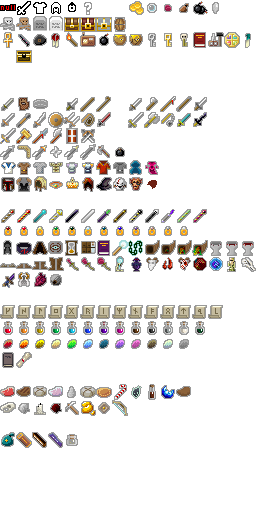
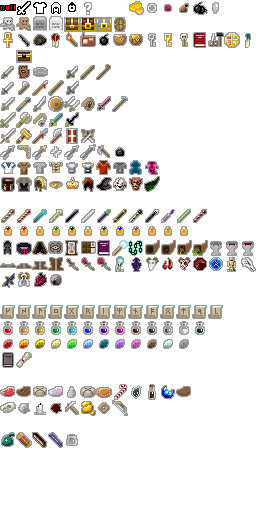
0.3.2 bug fix, dagger-axe added.

Changed region(s): [[0.0, 0.125, 0.8125, 0.25], [0.5625, 0.3438, 0.625, 0.375]]

diff --git a/core/src/main/java/com/egoal/darkestpixeldungeon/levels/RegularLevel.kt b/core/src/main/java/com/egoal/darkestpixeldungeon/levels/RegularLevel.kt
@@ -96,18 +96,20 @@ abstract class RegularLevel : Level() {
         // specials
         val probs = HashMap<Class<out Digger>, Float>(SpecialDiggers)
         if (pitRoomNeeded) {
-            // a pit room is need, remove all locked diggers
             // todo: this is fragile
             diggers.add(PitDigger())
-
+            
+            // a pit room is need, remove all locked diggers
             probs.remove(ArmoryDigger::class.java)
+            probs.remove(CryptDigger::class.java)
+            probs.remove(LaboratoryDigger::class.java)
             probs.remove(LibraryDigger::class.java)
+            probs.remove(StatueDigger::class.java)
             probs.remove(TreasuryDigger::class.java)
             probs.remove(VaultDigger::class.java)
-            probs.remove(WeakFloorDigger::class.java)
-            probs.remove(LaboratoryDigger::class.java)
             probs.remove(WandDigger::class.java)
-            probs.remove(CryptDigger::class.java)
+            // and the weak floor digger 
+            probs.remove(WeakFloorDigger::class.java)
         }
 
         // never fall to boss
@@ -438,7 +440,7 @@ abstract class RegularLevel : Level() {
         private val SPACES = "spaces"
 
         val SpecialDiggers: Map<Class<out Digger>, Float> = mapOf(
-                ArmoryDigger::class.java to 1f,
+                ArmoryDigger::class.java to 0.75f,
                 GardenDigger::class.java to 1f,
                 LaboratoryDigger::class.java to 1.6f,
                 LibraryDigger::class.java to 1f,
@@ -472,12 +474,13 @@ abstract class RegularLevel : Level() {
                 CellDigger::class.java to .1f,
                 CircleDigger::class.java to .05f,
                 DiamondDigger::class.java to .05f,
-                LatticeDigger::class.java to .075f,
+                LatticeDigger::class.java to .025f,
                 RectDigger::class.java to 1.25f,
                 RoundDigger::class.java to .05f,
                 StripDigger::class.java to .1f,
                 CrossDigger::class.java to .05f,
                 PatchDigger::class.java to .05f,
+                PillarDigger::class.java to .05f, 
                 GraveyardDigger::class.java to .05f,
                 SmallCornerDigger::class.java to 0.075f
         )

diff --git a/core/src/main/java/com/egoal/darkestpixeldungeon/items/KGenerator.kt b/core/src/main/java/com/egoal/darkestpixeldungeon/items/KGenerator.kt
@@ -90,8 +90,9 @@ object KGenerator {
                 Shuriken::class.java to 6f,
                 CurareDart::class.java to 6f,
                 CrystalsSwords::class.java to 4f,
-                SmokeSparks::class.java to 5f
-        ))
+                DaggerAxe::class.java to 5f,
+                SmokeSparks::class.java to 3f
+                ))
 
         object T4 : ClassMapGenerator<Weapon>(hashMapOf(
                 Longsword::class.java to 6f,
@@ -257,12 +258,17 @@ object KGenerator {
         }
 
         private val lastProbMap = HashMap<Class<out Artifact>, Float>()
+        private val lastSpawned = ArrayList<String>()
         fun push() {
             probMap.toMap(lastProbMap)
+            lastSpawned.clear()
+            lastSpawned.addAll(spawned)
         }
 
         fun pop() {
             lastProbMap.toMap(probMap)
+            spawned.clear()
+            spawned.addAll(lastSpawned)
         }
 
         fun reset() {
@@ -305,7 +311,7 @@ object KGenerator {
             CrownOfDwarf::class.java to 0f, // by king 
             HeaddressRegeneration::class.java to 1f,
             WizardHat::class.java to 1f,
-            MaskOfHorror::class.java to 1f, 
+            MaskOfHorror::class.java to 1f,
             MaskOfClown::class.java to 1f,
             RangerHat::class.java to 0.2f, // rare, so Yvette counts.
             MaskOfMadness::class.java to 0f // compose

diff --git a/core/src/main/java/com/egoal/darkestpixeldungeon/items/weapon/melee/DaggerAxe.kt b/core/src/main/java/com/egoal/darkestpixeldungeon/items/weapon/melee/DaggerAxe.kt
@@ -1,0 +1,35 @@
+package com.egoal.darkestpixeldungeon.items.weapon.melee
+
+import com.egoal.darkestpixeldungeon.actors.Char
+import com.egoal.darkestpixeldungeon.actors.Damage
+import com.egoal.darkestpixeldungeon.items.wands.WandOfBlastWave
+import com.egoal.darkestpixeldungeon.mechanics.Ballistica
+import com.egoal.darkestpixeldungeon.sprites.ItemSpriteSheet
+import com.watabou.utils.Random
+
+class DaggerAxe : MeleeWeapon() {
+    init {
+        image = ItemSpriteSheet.DAGGER_AXE
+
+        tier = 3
+        DLY = 1.5f
+        RCH = 2
+    }
+
+    // like spear
+    override fun max(lvl: Int): Int = Math.round((6.67f + 1.33f * lvl) * (tier + 1))
+
+    override fun proc(dmg: Damage): Damage {
+        // chance to knock back
+        val chance = 0.1f + 0.25 * (1f - Math.pow(.7, level() / 3.0).toFloat())
+        if (dmg.to is Char && Random.Float() < chance) {
+            val tgt = dmg.to as Char
+            val opposite = tgt.pos + (tgt.pos - (dmg.from as Char).pos)
+            val shot = Ballistica(tgt.pos, opposite, Ballistica.MAGIC_BOLT)
+
+            WandOfBlastWave.throwChar(tgt, shot, 1)
+        }
+
+        return super.proc(dmg)
+    }
+}

diff --git a/core/src/main/java/com/egoal/darkestpixeldungeon/levels/diggers/normal/PillarDigger.kt b/core/src/main/java/com/egoal/darkestpixeldungeon/levels/diggers/normal/PillarDigger.kt
@@ -1,0 +1,29 @@
+package com.egoal.darkestpixeldungeon.levels.diggers.normal
+
+import com.egoal.darkestpixeldungeon.levels.Level
+import com.egoal.darkestpixeldungeon.levels.Terrain
+import com.egoal.darkestpixeldungeon.levels.diggers.DigResult
+import com.egoal.darkestpixeldungeon.levels.diggers.Rect
+import com.egoal.darkestpixeldungeon.levels.diggers.Wall
+import com.watabou.utils.Point
+import com.watabou.utils.Random
+
+class PillarDigger : RectDigger() {
+    override fun chooseRoomSize(wall: Wall): Point = Point(Random.IntRange(6, 9), Random.IntRange(6, 9))
+
+    override fun dig(level: Level, wall: Wall, rect: Rect): DigResult {
+        val dr = super.dig(level, wall, rect)
+
+        // pillar
+        val pillars = Random.NormalIntRange(1, 3)
+        repeat(pillars) {
+            val w = Random.NormalIntRange(1, 3)
+            val h = Random.NormalIntRange(1, 3)
+            val x = Random.IntRange(rect.x1 + 1, rect.x2 - w)
+            val y = Random.IntRange(rect.y1 + 1, rect.y2 - h)
+            Companion.Fill(level, x, y, w, h, Terrain.WALL)
+        }
+
+        return dr
+    }
+}

diff --git a/core/src/main/java/com/egoal/darkestpixeldungeon/actors/mobs/WandGuard.kt b/core/src/main/java/com/egoal/darkestpixeldungeon/actors/mobs/WandGuard.kt
@@ -12,8 +12,10 @@ import com.egoal.darkestpixeldungeon.effects.particles.ShadowParticle
 import com.egoal.darkestpixeldungeon.items.Item
 import com.egoal.darkestpixeldungeon.items.wands.*
 import com.egoal.darkestpixeldungeon.mechanics.Ballistica
+import com.egoal.darkestpixeldungeon.messages.Messages
 import com.egoal.darkestpixeldungeon.sprites.CharSprite
 import com.egoal.darkestpixeldungeon.sprites.MobSprite
+import com.egoal.darkestpixeldungeon.utils.GLog
 import com.watabou.noosa.MovieClip
 import com.watabou.noosa.TextureFilm
 import com.watabou.utils.Random
@@ -54,6 +56,11 @@ class WandGuard : Mob() {
             enemy.defendDamage(dmg)
             enemy.takeDamage(dmg)
 
+            if (!enemy.isAlive) {
+                Dungeon.fail(dmg.from.javaClass)
+                GLog.n(Messages.capitalize(Messages.get(Char::class.java, "kill", (dmg.from as Char).name)))
+            }
+            
             //todo: i cannot use Wand::onZap(): coupling with Hero, may find way out
             //todo: fire wand performs not well
         }

diff --git a/core/src/main/java/com/egoal/darkestpixeldungeon/actors/hero/HeroClass.kt b/core/src/main/java/com/egoal/darkestpixeldungeon/actors/hero/HeroClass.kt
@@ -24,6 +24,7 @@ import com.egoal.darkestpixeldungeon.items.unclassified.Amulet
 import com.egoal.darkestpixeldungeon.items.unclassified.BrokenSeal
 import com.egoal.darkestpixeldungeon.items.unclassified.ExtractionFlask
 import com.egoal.darkestpixeldungeon.items.unclassified.Torch
+import com.egoal.darkestpixeldungeon.items.wands.WandOfBlastWave
 import com.egoal.darkestpixeldungeon.items.wands.WandOfMagicMissile
 import com.egoal.darkestpixeldungeon.items.weapon.Weapon
 import com.egoal.darkestpixeldungeon.items.weapon.melee.*
@@ -31,6 +32,7 @@ import com.egoal.darkestpixeldungeon.items.weapon.missiles.Boomerang
 import com.egoal.darkestpixeldungeon.items.weapon.missiles.Dart
 import com.egoal.darkestpixeldungeon.items.weapon.missiles.SmokeSparks
 import com.egoal.darkestpixeldungeon.messages.Messages
+import com.egoal.darkestpixeldungeon.plants.Icecap
 import com.watabou.utils.Bundle
 
 enum class HeroClass(private val title: String) {

diff --git a/core/src/main/java/com/egoal/darkestpixeldungeon/items/artifacts/DriedRose.kt b/core/src/main/java/com/egoal/darkestpixeldungeon/items/artifacts/DriedRose.kt
@@ -190,7 +190,7 @@ class DriedRose : Artifact() {
 
                 if (rose.level() >= rose.levelCap) {
                     GLog.i(Messages.get(this, "no_room"))
-                    hero.spendAndNext(Item.TIME_TO_PICK_UP)
+                    hero.spendAndNext(TIME_TO_PICK_UP)
                     return true
                 } else {
                     rose.upgrade()
@@ -198,7 +198,7 @@ class DriedRose : Artifact() {
                     else GLog.i(Messages.get(this, "levelup"))
 
                     Sample.INSTANCE.play(Assets.SND_DEWDROP)
-                    hero.spendAndNext(Item.TIME_TO_PICK_UP)
+                    hero.spendAndNext(TIME_TO_PICK_UP)
                     return true
                 }
             }

diff --git a/core/src/main/java/com/egoal/darkestpixeldungeon/levels/CavesLevel.kt b/core/src/main/java/com/egoal/darkestpixeldungeon/levels/CavesLevel.kt
@@ -52,10 +52,13 @@ class CavesLevel : RegularLevel() {
         // todo: rework this...
         if (!Yvette.Quest.Spawned && !Blacksmith.Quest.spawned) {
             if (Random.Int(15 - Dungeon.depth) == 0) {
-//                diggers.add(BlackSmithDigger())
-//                Blacksmith.Quest.Spawn()
-                diggers.add(TrappedRangerDigger())
-                Yvette.Quest.Spawned = true
+                if (Random.Int(2) == 0) {
+                    diggers.add(BlackSmithDigger())
+                    Blacksmith.Quest.Spawn()
+                } else {
+                    diggers.add(TrappedRangerDigger())
+                    Yvette.Quest.Spawned = true
+                }
             }
         }
 

diff --git a/core/src/main/java/com/egoal/darkestpixeldungeon/levels/diggers/unordinary/SewerExitDigger.kt b/core/src/main/java/com/egoal/darkestpixeldungeon/levels/diggers/unordinary/SewerExitDigger.kt
@@ -13,6 +13,13 @@ import com.watabou.utils.Random
 class SewerExitDigger : RectDigger() {
     override fun chooseRoomSize(wall: Wall): Point = Point(Random.IntRange(6, 8), Random.IntRange(6, 8))
 
+    override fun chooseDigArea(wall: Wall): Rect {
+        // cannot down to this room.
+        if (wall.direction == Direction.Down) return Rect(-1, -1, -1, -1)
+        
+        return super.chooseDigArea(wall)
+    }
+
     override fun dig(level: Level, wall: Wall, rect: Rect): DigResult {
         Fill(level, rect, Terrain.EMPTY)
         LinkHorizontal(level, rect.y1, rect.x1, rect.x2, Terrain.WALL_DECO)

diff --git a/core/src/main/java/com/egoal/darkestpixeldungeon/levels/SewerBossLevel.kt b/core/src/main/java/com/egoal/darkestpixeldungeon/levels/SewerBossLevel.kt
@@ -44,10 +44,10 @@ class SewerBossLevel : SewerLevel() {
     override fun chooseDiggers(): ArrayList<Digger> {
         val rectDiggers = hashMapOf(
                 CellDigger::class.java to .1f,
-                LatticeDigger::class.java to .075f,
+                LatticeDigger::class.java to .05f,
                 RectDigger::class.java to 1.25f,
                 StripDigger::class.java to .1f,
-                GraveyardDigger::class.java to .025f,
+                GraveyardDigger::class.java to .02f,
                 SmallCornerDigger::class.java to 0.075f
         )
 

diff --git a/core/src/main/java/com/egoal/darkestpixeldungeon/items/weapon/melee/PairSwords.kt b/core/src/main/java/com/egoal/darkestpixeldungeon/items/weapon/melee/PairSwords.kt
@@ -50,7 +50,7 @@ class PairSwords(var left: Sword = Sword(), var right: Sword = Sword()) : MeleeW
     // or you could just split them, enchant, then dual again.
     override fun enchant(): Weapon = selectEnchantSword().enchant()
 
-    override fun enchant(ench: Enchantment): Weapon = selectEnchantSword().enchant(ench)
+    override fun enchant(ench: Enchantment?): Weapon = selectEnchantSword().enchant(ench)
 
     override fun hasEnchant(type: Class<out Enchantment>): Boolean = left.hasEnchant(type) || right.hasEnchant(type)
 

diff --git a/core/src/main/java/com/egoal/darkestpixeldungeon/levels/PrisonLevel.kt b/core/src/main/java/com/egoal/darkestpixeldungeon/levels/PrisonLevel.kt
@@ -63,8 +63,10 @@ class PrisonLevel : RegularLevel() {
     }
 
     override fun createMobs() {
-        if (spawnWandmaker)
+        if (spawnWandmaker) {
+            spawnWandmaker = false // when reset, create Mobs would called again
             Wandmaker.Quest.Spawn(this, spaces.find { it.type == DigResult.Type.Entrance }!!.rect)
+        }
 
         super.createMobs()
     }
